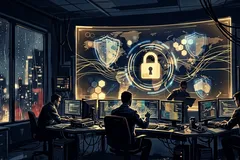
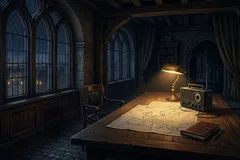
Sigurnost: mirnija scena bez klišea; --only više ne briše manifest
- Nova naslovna ilustracija deska Sigurnost: noćna soba, papirnata karta,
  radio i lampa, grad kroz gotičke prozore — bez štita, lokota i silueta
  za konzolama. Alt na HR i EN opisuje upravo ono što se vidi.
- `build-desk-art-v1.mjs --only <desk>` sada čita postojeći manifest i
  zamjenjuje samo traženi zapis; prije je jedan popravak slike obrisao
  ostalih osam iz manifesta.

diff --git a/apps/portal/izdanja/index.html b/apps/portal/izdanja/index.html
@@ -375,7 +375,7 @@
 <article class="iz-card"><img class="iz-cover" src="/assets/desk/art/ljubimci-640.webp" srcset="/assets/desk/art/ljubimci-440.webp 440w, /assets/desk/art/ljubimci-640.webp 640w, /assets/desk/art/ljubimci-1200.webp 1200w" sizes="(max-width:700px) 100vw, 560px" alt="Ilustracija: dnevna soba navečer, pas spava u fotelji, mačka na prozorskoj dasci, topla svjetiljka." width="640" height="360" loading="lazy" decoding="async"><span class="flag">Desk · AKTUAL MEDIA</span><h2><a href="/izdanja/ljubimci/">LJUBIMCI — AKTUAL MEDIA</a></h2><p>Desk ljubimaca prati tekstove o udomljavanju, veterinarskoj skrbi i gradskim pravilima za životinje. Ne objavljuje oglase ni cijene usluga kao vijesti: bilježi što je najavljeno, što je provedeno i koje brojke izvori navode. Posebno se prate azili, mikročipiranje, sterilizacija i sezonske opasnosti, jer se u tim temama najave i stvarno stanje često razlikuju. Svaki zapis ima izvor, datum i izravnu poveznicu, a osvrt ostaje na načinu izvještavanja. Desk se puni iz dnevnih podataka svih gradskih kanala.</p><ul class="iz-tags"><li>#Ljubimci</li><li>#Udomljavanje</li><li>#Veterina</li><li>#AktualMedia</li><li>#GNKASG</li></ul><div class="acts"><a class="btn" href="/izdanja/ljubimci/">Otvori desk →</a></div></article>
 <article class="iz-card"><img class="iz-cover" src="/assets/desk/art/svijet-640.webp" srcset="/assets/desk/art/svijet-440.webp 440w, /assets/desk/art/svijet-640.webp 640w, /assets/desk/art/svijet-1200.webp 1200w" sizes="(max-width:700px) 100vw, 560px" alt="Ilustracija: globus na radnom stolu noćne redakcije, zlatne rute preko oceana, naslovi u fokusu." width="640" height="360" loading="lazy" decoding="async"><span class="flag">Desk · AKTUAL MEDIA</span><h2><a href="/izdanja/svijet/">SVIJET — AKTUAL MEDIA</a></h2><p>Desk Svijet povezuje vanjske teme s lokalnim posljedicama: energetiku, trgovinske mjere, migracije, sigurnost i klimu. Ne donosi stavove o sukobima i ne prenosi tvrdnje bez izvora; bilježi kako je pojedini događaj naslovljen u zemljama mreže i što se od toga može provjeriti. Uz svaki zapis stoje izvor, datum i poveznica na izvornik, a brojke se ne zaokružuju bez konteksta. Desk služi kao okvir za razumijevanje lokalnih odluka, ne kao komentar svjetske politike. Ažurira se iz dnevnih podataka gradskih kanala.</p><ul class="iz-tags"><li>#Svijet</li><li>#Globalno</li><li>#Sigurnost</li><li>#AktualMedia</li><li>#GNKASG</li></ul><div class="acts"><a class="btn" href="/izdanja/svijet/">Otvori desk →</a></div></article>
 <article class="iz-card"><img class="iz-cover" src="/assets/desk/art/moda-640.webp" srcset="/assets/desk/art/moda-440.webp 440w, /assets/desk/art/moda-640.webp 640w, /assets/desk/art/moda-1200.webp 1200w" sizes="(max-width:700px) 100vw, 560px" alt="Ilustracija: atelje noću, lutka s drapiranom svilom, konci i škare na tamnom stolu pod svjetlom." width="640" height="360" loading="lazy" decoding="async"><span class="flag">Desk · AKTUAL MEDIA</span><h2><a href="/izdanja/moda/">TJEDNIK MODE — AKTUAL MEDIA</a></h2><p>Modni desk okuplja tekstove o modi, dizajnu i stilu iz svih gradskih kanala AKTUAL MEDIA. Ne donosi ocjene ukusa i ne prenosi PR tekstove kao vijesti: prati što je objavljeno, tko potpisuje kolekciju i kakav je poslovni model iza brenda. Posebna pažnja ide lokalnim dizajnerima, tekstilnoj proizvodnji i tržištu luksuza u regiji. Svaki zapis nosi izvor, datum i izravnu poveznicu, a fotografije se ne preuzimaju bez prava. Desk je tjedni pregled, a ne katalog proizvoda.</p><ul class="iz-tags"><li>#Moda</li><li>#Dizajn</li><li>#Stil</li><li>#AktualMedia</li><li>#GNKASG</li></ul><div class="acts"><a class="btn" href="/izdanja/moda/">Otvori desk →</a></div></article>
-<article class="iz-card"><img class="iz-cover" src="/assets/desk/art/sigurnost-640.webp" srcset="/assets/desk/art/sigurnost-440.webp 440w, /assets/desk/art/sigurnost-640.webp 640w, /assets/desk/art/sigurnost-1200.webp 1200w" sizes="(max-width:700px) 100vw, 560px" alt="Ilustracija: mračna nadzorna soba, štit i lokot od svjetla nad mapom, siluete za konzolama." width="640" height="360" loading="lazy" decoding="async"><span class="flag">Desk · AKTUAL MEDIA</span><h2><a href="/izdanja/sigurnost/">SIGURNOST I KIBERNETIKA</a></h2><p>Sigurnosni desk prati tekstove o obavještajnim službama, kibernetičkim incidentima, dezinformacijama i spajanjima tvrtki u cijeloj regiji. Osvrti ne prenose neutemeljene tvrdnje kao činjenice: svaka sumnja ostaje sumnja, a svaki dokument mora biti imenovan. Posebna pažnja posvećena je preuzimanjima i koncentracijama, gdje se u medijima često miješaju prijava, odobrenje i stvarno vlasništvo. Stranica povezuje izvornike i označava što je provjerljivo, a što je interpretacija. Ažurira se iz dnevnih podataka svih gradskih kanala i ima vlastiti feed.</p><ul class="iz-tags"><li>#Sigurnost</li><li>#Kibernetika</li><li>#Obavjestaj</li><li>#Preuzimanja</li><li>#AktualMedia</li><li>#GNKASG</li></ul><div class="acts"><a class="btn" href="/izdanja/sigurnost/">Otvori desk →</a></div></article>
+<article class="iz-card"><img class="iz-cover" src="/assets/desk/art/sigurnost-640.webp" srcset="/assets/desk/art/sigurnost-440.webp 440w, /assets/desk/art/sigurnost-640.webp 640w, /assets/desk/art/sigurnost-1200.webp 1200w" sizes="(max-width:700px) 100vw, 560px" alt="Ilustracija: noćna soba u staroj zgradi, papirnata karta, radio i lampa na drvenom stolu, kroz gotičke prozore nazire se grad." width="640" height="360" loading="lazy" decoding="async"><span class="flag">Desk · AKTUAL MEDIA</span><h2><a href="/izdanja/sigurnost/">SIGURNOST I KIBERNETIKA</a></h2><p>Sigurnosni desk prati tekstove o obavještajnim službama, kibernetičkim incidentima, dezinformacijama i spajanjima tvrtki u cijeloj regiji. Osvrti ne prenose neutemeljene tvrdnje kao činjenice: svaka sumnja ostaje sumnja, a svaki dokument mora biti imenovan. Posebna pažnja posvećena je preuzimanjima i koncentracijama, gdje se u medijima često miješaju prijava, odobrenje i stvarno vlasništvo. Stranica povezuje izvornike i označava što je provjerljivo, a što je interpretacija. Ažurira se iz dnevnih podataka svih gradskih kanala i ima vlastiti feed.</p><ul class="iz-tags"><li>#Sigurnost</li><li>#Kibernetika</li><li>#Obavjestaj</li><li>#Preuzimanja</li><li>#AktualMedia</li><li>#GNKASG</li></ul><div class="acts"><a class="btn" href="/izdanja/sigurnost/">Otvori desk →</a></div></article>
 <article class="iz-card"><span class="flag">Platforma · GNK ASG</span><h2><a href="/digital-workforce/">Digitalna radna snaga — javna simulacija</a></h2><p>Javna ilustrativna simulacija sustava digitalne radne snage GNK ASG: planovi, projekti, rizici i katalog od 1.573 sintetička workera. Stranica objašnjava što simulacija jest, a što nije, i odvaja pokazne scenarije od stvarnih poslovnih odluka. Katalog se pregledava po timovima i ulogama, a svaki je zapis označen kao sintetički. Uz katalog stoje dokumentacija o rizicima i ograničenjima te odgovori na najčešća pitanja. Ništa sa stranice ne opisuje stvarne zaposlenike ni stvarne klijente, a brojke su dio simulacije. Kartica je ulaz u model, ne dokaz poslovnog učinka.</p><ul class="iz-tags"><li>#DigitalnaRadnaSnaga</li><li>#GNKASG</li><li>#Simulacija</li></ul><div class="acts"><a class="btn" href="/digital-workforce/">Otvori simulaciju →</a></div></article>
 <article class="iz-card"><span class="flag">Platforma · GNK ASG</span><h2><a href="/radio/">AKTUAL MEDIA RADIO</a></h2><p>AKTUAL MEDIA RADIO je diskretni player u kutu stranice: preklopljen je dok ga čitatelj ne otvori i ne prekriva sadržaj. Nudi šest glazbenih streamova te popis javnih radijskih kuća svih zemalja koje portal prati. Stanice se ne reemitiraju; svaka poveznica vodi na službeni player te kuće, uz atribuciju. Player pamti je li zatvoren i može se otvoriti kao stalni prozor ili instalirati kao aplikacija. Ima vlastite kontrole glasnoće i reprodukcije, a stanice se biraju izravno u panelu. Kartica vodi na stranicu s playerom i popisom stanica.</p><ul class="iz-tags"><li>#AktualMediaRadio</li><li>#AktualMedia</li><li>#GNKASG</li></ul><div class="acts"><a class="btn" href="/radio/">Otvori radio →</a></div></article>
 <article class="iz-card"><span class="flag">Platforma · GNK ASG</span><h2><a href="/knowledge-center/">Centar znanja i odgovori</a></h2><p>Centar znanja okuplja odgovore o grupi GNK ASG, projektima, financijama, medijskim prijavama, izvješćima, tehnologiji i službenim kontaktima. Pitanja su posložena po temama, a svaki odgovor upućuje na dokument ili stranicu na kojoj se tvrdnja može provjeriti. Stranica razlikuje objavljeno, planirano i uvjetno, pa se rok i uvjet ne čitaju kao jamstvo. Služi novinarima, partnerima i čitateljima koji žele prvi izvor umjesto prepričavanja. Odgovori se dopunjuju kad se promijeni matični dokument, a kontakt za ispravak je info@gnk-asg.hr. Kartica je ulaz u arhivu odgovora, a ne u marketinški pregled.</p><ul class="iz-tags"><li>#CentarZnanja</li><li>#GNKASG</li><li>#AktualMedia</li></ul><div class="acts"><a class="btn" href="/knowledge-center/">Otvori centar znanja →</a></div></article></div>

diff --git a/apps/portal/en/gnk-aktual/index.html b/apps/portal/en/gnk-aktual/index.html
@@ -175,6 +175,7 @@
 
 
 
+
 <!-- AKTUAL-MEDIA-SEO-ENTITY:START -->
 <script type="application/ld+json">{"@context":"https://schema.org","@graph":[{"@type":"NewsMediaOrganization","@id":"https://gnk-asg.hr/gnk-aktual/#news-organization","name":"AKTUAL MEDIA d.o.o.","alternateName":["AKTUAL MEDIA","Aktual mediji","Aktual Media","AKTUAL MEDIA KANAL"],"url":"https://gnk-asg.hr/gnk-aktual/","logo":{"@type":"ImageObject","@id":"https://gnk-asg.hr/assets/brand/aktual-media-en.svg#logo","url":"https://gnk-asg.hr/assets/brand/aktual-media-en.svg","contentUrl":"https://gnk-asg.hr/assets/brand/aktual-media-en-1200.webp","width":1200,"height":345,"caption":"AKTUAL MEDIA — world edition","encodingFormat":"image/svg+xml"},"description":"Vijesti, regionalna izdanja, analize, tematski deskovi, poslovni tjednik i radio.","parentOrganization":{"@id":"https://gnk-asg.hr/#gnk-asg"},"editor":{"@id":"https://gnk-asg.hr/#nermin-sefic"},"subjectOf":[{"@type":"WebPage","url":"https://gnk-asg.hr/izdanja/"},{"@type":"WebPage","url":"https://gnk-asg.hr/radio/"},{"@type":"WebPage","url":"https://gnk-asg.hr/aktual-media/"}]},{"@type":"ItemList","@id":"https://gnk-asg.hr/gnk-aktual/#editions","name":"Izdanja AKTUAL MEDIA","numberOfItems":27,"itemListElement":[{"@type":"ListItem","name":"AKTUAL MEDIA KANAL ZAGREB","url":"https://gnk-asg.hr/kanal/zagreb/","position":1},{"@type":"ListItem","name":"AKTUAL MEDIA KANAL BEOGRAD","url":"https://gnk-asg.hr/kanal/beograd/","position":2},{"@type":"ListItem","name":"AKTUAL MEDIA KANAL SARAJEVO","url":"https://gnk-asg.hr/kanal/sarajevo/","position":3},{"@type":"ListItem","name":"AKTUAL MEDIA KANAL BUDAPEST","url":"https://gnk-asg.hr/kanal/budimpesta/","position":4},{"@type":"ListItem","name":"AKTUAL MEDIA KANAL LJUBLJANA","url":"https://gnk-asg.hr/kanal/ljubljana/","position":5},{"@type":"ListItem","name":"AKTUAL MEDIA KANAL ROMA","url":"https://gnk-asg.hr/kanal/rim/","position":6},{"@type":"ListItem","name":"AKTUAL MEDIA KANAL SOFIJA","url":"https://gnk-asg.hr/kanal/sofija/","position":7},{"@type":"ListItem","name":"AKTUAL MEDIA KANAL BUCUREȘTI","url":"https://gnk-asg.hr/kanal/bukurest/","position":8},{"@type":"ListItem","name":"AKTUAL MEDIA CHANNEL NAIROBI","url":"https://gnk-asg.hr/kanal/nairobi/","position":9},{"@type":"ListItem","name":"AKTUAL MEDIA KANAL JAKARTA","url":"https://gnk-asg.hr/kanal/jakarta/","position":10},{"@type":"ListItem","name":"AKTUAL MEDIA CHANNEL NEW YORK","url":"https://gnk-asg.hr/kanal/newyork/","position":11},{"@type":"ListItem","name":"AKTUAL MEDIA CANAL SÃO PAULO","url":"https://gnk-asg.hr/kanal/saopaulo/","position":12},{"@type":"ListItem","name":"AKTUAL MEDIA CHANNEL SYDNEY","url":"https://gnk-asg.hr/kanal/sydney/","position":13},{"@type":"ListItem","name":"AKTUAL MEDIA CHANNEL SINGAPUR","url":"https://gnk-asg.hr/kanal/singapur/","position":14},{"@type":"ListItem","name":"AKTUAL MEDIA KANAL KAIRO","url":"https://gnk-asg.hr/kanal/kairo/","position":15},{"@type":"ListItem","name":"AKTUAL MEDIA KANAL TOKIO","url":"https://gnk-asg.hr/kanal/tokio/","position":16},{"@type":"ListItem","name":"AKTUAL MEDIA KANAL PEKING","url":"https://gnk-asg.hr/kanal/peking/","position":17},{"@type":"ListItem","name":"Sport — AKTUAL MEDIA","url":"https://gnk-asg.hr/izdanja/sport/","position":18},{"@type":"ListItem","name":"Politika — AKTUAL MEDIA","url":"https://gnk-asg.hr/izdanja/politika/","position":19},{"@type":"ListItem","name":"Sigurnost — AKTUAL MEDIA","url":"https://gnk-asg.hr/izdanja/sigurnost/","position":20},{"@type":"ListItem","name":"Biznis — AKTUAL MEDIA","url":"https://gnk-asg.hr/izdanja/biznis/","position":21},{"@type":"ListItem","name":"Tehnologija — AKTUAL MEDIA","url":"https://gnk-asg.hr/izdanja/tehnologija/","position":22},{"@type":"ListItem","name":"Moda — AKTUAL MEDIA","url":"https://gnk-asg.hr/izdanja/moda/","position":23},{"@type":"ListItem","name":"Putovanja — AKTUAL MEDIA","url":"https://gnk-asg.hr/izdanja/putovanja/","position":24},{"@type":"ListItem","name":"Ljubimci — AKTUAL MEDIA","url":"https://gnk-asg.hr/izdanja/ljubimci/","position":25},{"@type":"ListItem","name":"Svijet — AKTUAL MEDIA","url":"https://gnk-asg.hr/izdanja/svijet/","position":26},{"@type":"ListItem","name":"BUSINESS TJEDNIK","url":"https://gnk-asg-tjednik.pages.dev/","position":27}]}]}</script>
 <link rel="sitemap" type="application/xml" href="/izdanja/sitemap.xml">

diff --git a/apps/portal/izdanja/sigurnost/index.html b/apps/portal/izdanja/sigurnost/index.html
@@ -15,7 +15,7 @@
 <meta property="article:tag" content="#Preuzimanja">
 <meta property="article:tag" content="#AktualMedia">
 <meta property="article:tag" content="#GNKASG">
-<meta property="og:image:alt" content="Ilustracija: mračna nadzorna soba, štit i lokot od svjetla nad mapom, siluete za konzolama.">
+<meta property="og:image:alt" content="Ilustracija: noćna soba u staroj zgradi, papirnata karta, radio i lampa na drvenom stolu, kroz gotičke prozore nazire se grad.">
 <link rel="canonical" href="https://gnk-asg.hr/izdanja/sigurnost/">
 
 <link rel="preload" as="image" href="/assets/desk/art/sigurnost-1200.webp" imagesrcset="/assets/desk/art/sigurnost-640.webp 640w, /assets/desk/art/sigurnost-800.webp 800w, /assets/desk/art/sigurnost-1200.webp 1200w, /assets/desk/art/sigurnost-1600.webp 1600w" imagesizes="(max-width:760px) 100vw, 1120px" fetchpriority="high">
@@ -30,7 +30,7 @@
 <meta name="twitter:title" content="Sigurnosni desk: obavještajne teme, kibernetika i preuzimanja | AKTUAL MEDIA">
 <meta name="twitter:description" content="Sigurnosni desk prati tekstove o obavještajnim službama, kibernetičkim incidentima, dezinformacijama i spajanjima tvrtki u cijeloj regiji. Osvrti ne prenose neutemeljene tvrdnje kao činjenice: svaka…">
 <meta name="twitter:image" content="https://gnk-asg.hr/assets/desk/art/sigurnost-og.jpg">
-<meta name="twitter:image:alt" content="Ilustracija: mračna nadzorna soba, štit i lokot od svjetla nad mapom, siluete za konzolama.">
+<meta name="twitter:image:alt" content="Ilustracija: noćna soba u staroj zgradi, papirnata karta, radio i lampa na drvenom stolu, kroz gotičke prozore nazire se grad.">
 <link rel="sitemap" type="application/xml" href="/izdanja/sitemap.xml">
 <script type="application/ld+json">{"@context":"https://schema.org","@type":"WebSite","@id":"https://gnk-asg.hr/#website","name":"GNK ASG","url":"https://gnk-asg.hr/","inLanguage":["hr","en"],"publisher":{"@type":"Organization","@id":"https://gnk-asg.hr/#gnk-asg","name":"GNK ASG d.o.o.","url":"https://gnk-asg.hr/"}}</script>
 <script type="application/ld+json">{"@context":"https://schema.org","@type":"NewsMediaOrganization","@id":"https://gnk-asg.hr/gnk-aktual/#news-organization","name":"AKTUAL MEDIA d.o.o.","alternateName":["AKTUAL MEDIA","Aktual Media","Aktual mediji","Aktual medija","Aktual Media d.o.o.","AKTUAL MEDIA KANAL","AKTUAL MEDIA KANAL ZAGREB"],"url":"https://gnk-asg.hr/gnk-aktual/","logo":{"@type":"ImageObject","@id":"https://gnk-asg.hr/assets/brand/aktual-media-hr.svg#logo","url":"https://gnk-asg.hr/assets/brand/aktual-media-hr.svg","contentUrl":"https://gnk-asg.hr/assets/brand/aktual-media-hr-1200.webp","width":1200,"height":345,"caption":"AKTUAL MEDIA — svjetsko izdanje","encodingFormat":"image/svg+xml"},"parentOrganization":{"@type":"Organization","@id":"https://gnk-asg.hr/#gnk-asg","name":"GNK ASG d.o.o.","url":"https://gnk-asg.hr/"},"publishingPrinciples":"https://gnk-asg.hr/gnk-aktual/metodologija/"}</script>
@@ -152,7 +152,7 @@
   <figure class="iz-hero">
     <picture>
       <source type="image/webp" srcset="/assets/desk/art/sigurnost-440.webp 440w, /assets/desk/art/sigurnost-640.webp 640w, /assets/desk/art/sigurnost-800.webp 800w, /assets/desk/art/sigurnost-1200.webp 1200w, /assets/desk/art/sigurnost-1600.webp 1600w" sizes="(max-width:760px) 100vw, 1120px">
-      <img src="/assets/desk/art/sigurnost-1200.webp" alt="Ilustracija: mračna nadzorna soba, štit i lokot od svjetla nad mapom, siluete za konzolama." width="1200" height="675" fetchpriority="high" decoding="async">
+      <img src="/assets/desk/art/sigurnost-1200.webp" alt="Ilustracija: noćna soba u staroj zgradi, papirnata karta, radio i lampa na drvenom stolu, kroz gotičke prozore nazire se grad." width="1200" height="675" fetchpriority="high" decoding="async">
     </picture>
     <figcaption><b>Naslovna ilustracija</b><span>Generirana grafika, nije fotografija događaja · AKTUAL MEDIA</span></figcaption>
   </figure>

diff --git a/apps/portal/gnk-aktual/index.html b/apps/portal/gnk-aktual/index.html
@@ -167,6 +167,7 @@
 
 
 
+
 <!-- AKTUAL-MEDIA-SEO-ENTITY:START -->
 <script type="application/ld+json">{"@context":"https://schema.org","@graph":[{"@type":"ItemList","@id":"https://gnk-asg.hr/gnk-aktual/#editions","name":"Izdanja AKTUAL MEDIA","numberOfItems":27,"itemListElement":[{"@type":"ListItem","name":"AKTUAL MEDIA KANAL ZAGREB","url":"https://gnk-asg.hr/kanal/zagreb/","position":1},{"@type":"ListItem","name":"AKTUAL MEDIA KANAL BEOGRAD","url":"https://gnk-asg.hr/kanal/beograd/","position":2},{"@type":"ListItem","name":"AKTUAL MEDIA KANAL SARAJEVO","url":"https://gnk-asg.hr/kanal/sarajevo/","position":3},{"@type":"ListItem","name":"AKTUAL MEDIA KANAL BUDAPEST","url":"https://gnk-asg.hr/kanal/budimpesta/","position":4},{"@type":"ListItem","name":"AKTUAL MEDIA KANAL LJUBLJANA","url":"https://gnk-asg.hr/kanal/ljubljana/","position":5},{"@type":"ListItem","name":"AKTUAL MEDIA KANAL ROMA","url":"https://gnk-asg.hr/kanal/rim/","position":6},{"@type":"ListItem","name":"AKTUAL MEDIA KANAL SOFIJA","url":"https://gnk-asg.hr/kanal/sofija/","position":7},{"@type":"ListItem","name":"AKTUAL MEDIA KANAL BUCUREȘTI","url":"https://gnk-asg.hr/kanal/bukurest/","position":8},{"@type":"ListItem","name":"AKTUAL MEDIA CHANNEL NAIROBI","url":"https://gnk-asg.hr/kanal/nairobi/","position":9},{"@type":"ListItem","name":"AKTUAL MEDIA KANAL JAKARTA","url":"https://gnk-asg.hr/kanal/jakarta/","position":10},{"@type":"ListItem","name":"AKTUAL MEDIA CHANNEL NEW YORK","url":"https://gnk-asg.hr/kanal/newyork/","position":11},{"@type":"ListItem","name":"AKTUAL MEDIA CANAL SÃO PAULO","url":"https://gnk-asg.hr/kanal/saopaulo/","position":12},{"@type":"ListItem","name":"AKTUAL MEDIA CHANNEL SYDNEY","url":"https://gnk-asg.hr/kanal/sydney/","position":13},{"@type":"ListItem","name":"AKTUAL MEDIA CHANNEL SINGAPUR","url":"https://gnk-asg.hr/kanal/singapur/","position":14},{"@type":"ListItem","name":"AKTUAL MEDIA KANAL KAIRO","url":"https://gnk-asg.hr/kanal/kairo/","position":15},{"@type":"ListItem","name":"AKTUAL MEDIA KANAL TOKIO","url":"https://gnk-asg.hr/kanal/tokio/","position":16},{"@type":"ListItem","name":"AKTUAL MEDIA KANAL PEKING","url":"https://gnk-asg.hr/kanal/peking/","position":17},{"@type":"ListItem","name":"Sport — AKTUAL MEDIA","url":"https://gnk-asg.hr/izdanja/sport/","position":18},{"@type":"ListItem","name":"Politika — AKTUAL MEDIA","url":"https://gnk-asg.hr/izdanja/politika/","position":19},{"@type":"ListItem","name":"Sigurnost — AKTUAL MEDIA","url":"https://gnk-asg.hr/izdanja/sigurnost/","position":20},{"@type":"ListItem","name":"Biznis — AKTUAL MEDIA","url":"https://gnk-asg.hr/izdanja/biznis/","position":21},{"@type":"ListItem","name":"Tehnologija — AKTUAL MEDIA","url":"https://gnk-asg.hr/izdanja/tehnologija/","position":22},{"@type":"ListItem","name":"Moda — AKTUAL MEDIA","url":"https://gnk-asg.hr/izdanja/moda/","position":23},{"@type":"ListItem","name":"Putovanja — AKTUAL MEDIA","url":"https://gnk-asg.hr/izdanja/putovanja/","position":24},{"@type":"ListItem","name":"Ljubimci — AKTUAL MEDIA","url":"https://gnk-asg.hr/izdanja/ljubimci/","position":25},{"@type":"ListItem","name":"Svijet — AKTUAL MEDIA","url":"https://gnk-asg.hr/izdanja/svijet/","position":26},{"@type":"ListItem","name":"BUSINESS TJEDNIK","url":"https://gnk-asg-tjednik.pages.dev/","position":27}]}]}</script>
 <link rel="sitemap" type="application/xml" href="/izdanja/sitemap.xml">
